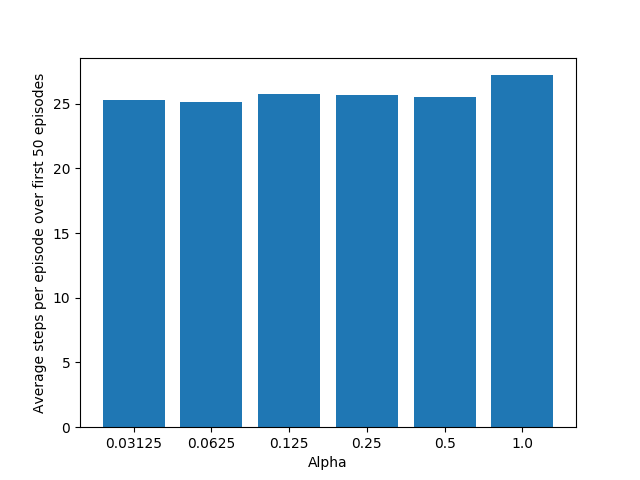
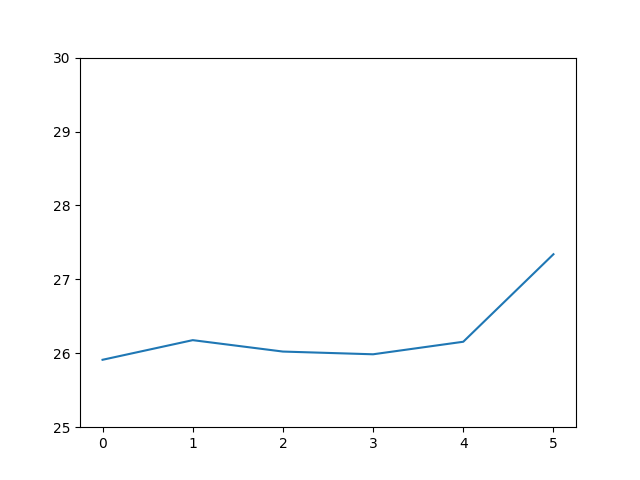
Line chart instead of bars

diff --git a/assignment5/part2/plot.py b/assignment5/part2/plot.py
@@ -19,10 +19,12 @@ if __name__ == "__main__":
 
   print(data)  
   
-  fig, ax = plt.subplots()
-  ax.set_xticklabels((" ", "0.03125", "0.0625", "0.125", "0.25", "0.5", "1.0"))
-  ax.set_xlabel("Alpha")
-  ax.set_ylabel("Average steps per episode over first 50 episodes")
-  bars = ax.bar(np.arange(6), data)
+  # fig, ax = plt.subplots()
+  # ax.set_xticklabels((" ", "0.03125", "0.0625", "0.125", "0.25", "0.5", "1.0"))
+  # ax.set_xlabel("Alpha")
+  # ax.set_ylabel("Average steps per episode over first 50 episodes")
+  # bars = ax.bar(np.arange(6), data)
+  plt.ylim([25,30])
+  plt.plot(data)
 
   plt.savefig("Dyna-Q.png")
